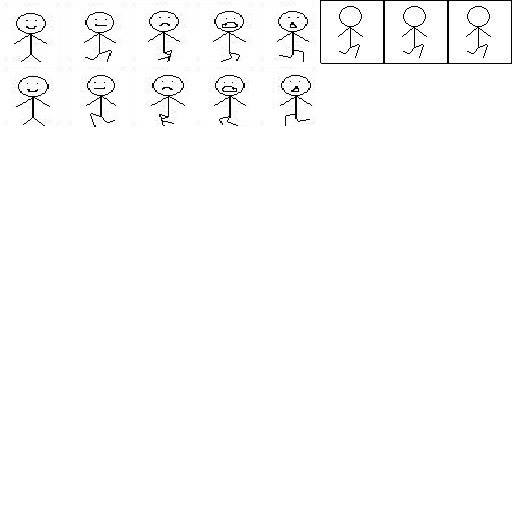
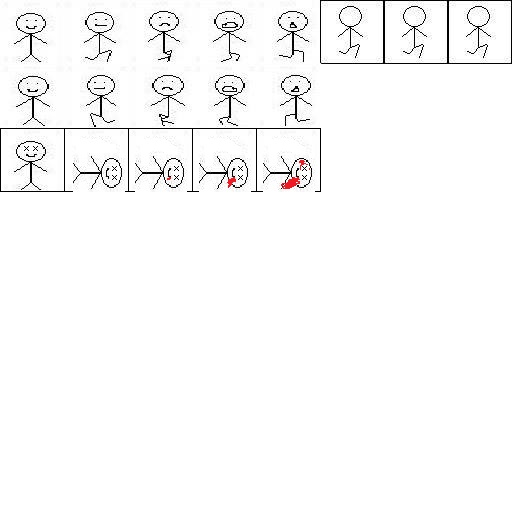
people  die animate

diff --git a/src/SuperClass/Character.java b/src/SuperClass/Character.java
@@ -177,13 +177,23 @@ public class Character extends Entity
 			}
 		}
 		else{
-			setX(100);
-			setY(0);
 			if(dieTime==0)dieTime = System.nanoTime();
-			else if( System.nanoTime() - dieTime  > (long)10e8*2){
-				life = 500;
-				dieTime = 0;
-				setX(200);
+			else if( System.nanoTime() - dieTime  > (long)10e7*5){
+				if(frame<10){
+					frame=10;
+					dieTime = 0;
+				}
+				else if(frame==14){
+					frame = 0;
+					life = 500;
+					dieTime = 0;
+					setX(200);
+					setY(0);
+				}
+				else{
+					dieTime = 0;
+					frame++;
+				}
 			}
 		}
 		//////

diff --git a/src/Client/Client.java b/src/Client/Client.java
@@ -135,12 +135,14 @@ public class Client extends PApplet{
 		sheet = new PictureSheet(loadImage("match.png"));
 		
 		// Player
-		player = new Picture[10];
+		player = new Picture[15];
 		for(int tmp=0;tmp<5;tmp++){
 			player[tmp] = new Picture(sheet,tmp,0);
 			player[tmp].reSize(100, 100);
 			player[tmp+5] = new Picture(sheet,tmp,1);
 			player[tmp+5].reSize(100, 100);
+			player[tmp+10] = new Picture(sheet,tmp,2);
+			player[tmp+10].reSize(100, 100);
 		}
 		
 		

diff --git a/src/Client/ClientMain.java b/src/Client/ClientMain.java
@@ -10,7 +10,7 @@ public class ClientMain extends JFrame{
 	
 	public static void main(String [] args){
 		
-		Client applet = new Client( "140.114.86.236", 6667, windowWidth, windowHeight);
+		Client applet = new Client( "127.0.0.1", 6667, windowWidth, windowHeight);
 		applet.init();
 		applet.start();
 		applet.setFocusable(true);
